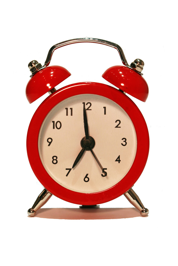
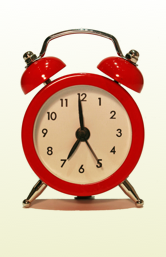
New homepage

diff --git a/reminder/static/css/main.css b/reminder/static/css/main.css
@@ -1,3 +1,12 @@
+.clearfix:before,
+.clearfix:after {
+    content: "";
+    display: table;
+} 
+.clearfix:after {
+    clear: both;
+}
+
 body {
 	background: #1C3048;
 }
@@ -162,19 +171,25 @@ body {
 	height: 8em;
 }
 
-#content .submit {
-	background: #FF6132;
+#content .submit, #hero .submit {
+	background: #DC2E2B;
 	border: 0;
 	border-radius: 4px;
 	color: #fff;
+	display: inline-block;
 	font-size: 14px;
-	margin: 3em 0 2em;
+	margin: 4em 0 2em;
 	padding: 1em 1.5em;
+	text-decoration: none;
 	text-transform: uppercase;
 }
 
-#content .submit:hover {
-	background: #C93E15;
+#hero .submit {
+	margin: 0;
+}
+
+#content .submit:hover, #hero .submit:hover {
+	background: #A82522;
 }
 
 footer {
@@ -184,6 +199,16 @@ footer {
 
 footer p {
 	color: #92A1B2;
+}
+
+footer .credit {
+	margin-left: 2em;
+	font-style: italic;
+}
+
+footer .credit a {
+	color: #fff;
+	text-decoration: underline;
 }
 
 .success-message {
@@ -198,4 +223,75 @@ footer p {
 	-webkit-box-sizing: border-box;
 	-moz-box-sizing: border-box;
 	box-sizing: border-box;
+}
+
+.home #content {
+	background: #F5F5F5;
+	padding: 4em 0;
+}
+
+.home .container {
+	max-width: 940px;
+}
+
+.home #hero {
+	background: -webkit-linear-gradient(rgba(255,255,255,1), rgba(240,241,209,1));
+	background: -o-linear-gradient(rgba(255,255,255,1), rgba(240,241,209,1));
+	background: -moz-linear-gradient(rgba(255,255,255,1), rgba(240,241,209,1));
+	background: linear-gradient(rgba(255,255,255,1), rgba(240,241,209,1));
+}
+
+.home #hero .container {
+	background: url('../img/clock.png') bottom left no-repeat;
+	height: 273px;
+	min-height: 200px;
+	padding: 64px 0 0 200px;
+}
+
+.home #hero h1 {
+	font-family: "Merriweather", Georgia, Times, serif;
+	font-size: 1.875em;
+	font-weight: 400;
+	line-height: 1.4;
+	margin: 0 0 0.5em;
+}
+
+.home #introduction { 
+	background: #fff;
+	border-bottom: 1px solid #EEE;
+	padding: 4em 0;
+	text-align: center;
+}
+
+.home #introduction p {
+	color: #4C4C4C;
+	font-family: "Merriweather", Georgia, Times, serif;
+	font-size: 1.25em;
+	font-weight: 300;
+	line-height: 1.5;
+	margin: 0 auto;
+	max-width: 760px;
+}
+
+.home #content .selling-point {
+	float: left;
+	width: 33%;
+}
+
+.home #content h3 {
+	font-family: "Merriweather", Georgia, Times, serif;
+	font-size: 1.125em;
+	font-weight: 400;
+}
+
+.home #content p {
+	color: #6A6A6A;
+	font-family: "Merriweather", Georgia, Times, serif;
+	font-size: 1em;
+	font-weight: 300;
+	line-height: 1.4;
+}
+
+.home #content .selling-point p {
+	margin-right: 2.5em;
 }

diff --git a/templates/index.html b/templates/index.html
@@ -17,11 +17,7 @@
 	<script type="text/javascript" src="./static/js/jquery.cookie.js"></script>
 </head>
 
-<body>
-
-<script type="text/javascript">
-	var post_url = "/api/reminders/";
-</script>
+<body class="home">
 
 <header class="site_header">
 	<div class="container">
@@ -29,16 +25,38 @@
 	</div>
 </header>
 
-<div id="content">
-	<header class="content_header">
-      <img src="/static/img/logo.png" />
-		<h1>words</h1>
-		<p>words</p>
-	</header>
+<div id="hero">
 
+	<div class="container box-sizing-border">
+		<h1>Simple medication reminders <br />over the phone for you and yours</h1>
+		<a href="/reminder/new" class="submit">Set up a reminder now</a>
+	</div>
+
+</div>
+
+<div id="introduction">
 	<div class="container">
+		<p><strong>Take Your Meds</strong> is a telephone service to help you remember to take your medication. It's easy to set up, and you can start receiving your reminder phonecalls today.</p>
+	</div>
+</div>
 
-		Words
+<div id="content">
+	<div class="container clearfix">
+
+		<div class="selling-point left">
+			<h3>Customisable schedule</h3>
+			<p>Tell us what you need to be reminded about and when and <strong>let us do the work for you</strong>.</p>
+		</div>
+
+		<div class="selling-point right">
+			<h3>Record your own message</h3>
+			<p>Or have a family member do it for you. Or if you prefer, you can use one of our <strong>built-in messages</strong>.</p>
+		</div>
+
+		<div class="selling-point left">
+			<h3>Flexible pricing</h3>
+			<p>Whether you need 1 or 100 reminders a day, we have <strong>the right low-cost option</strong> for you</p>
+		</div>
 
 	</div>
 </div>
@@ -46,7 +64,7 @@
 
 <footer>
 	<div class="container">
-		<p>&copy; 2015 "Take Your Meds"</p>
+		<p>&copy; 2015 "Take Your Meds" <span class="credit">Pill image created by <a href="https://thenounproject.com/misterabrams/">Josh Abrams</a>, from the <a href="http://thenounproject.com">Noun Project</a></span></p>
 	</div>
 
 </footer>
